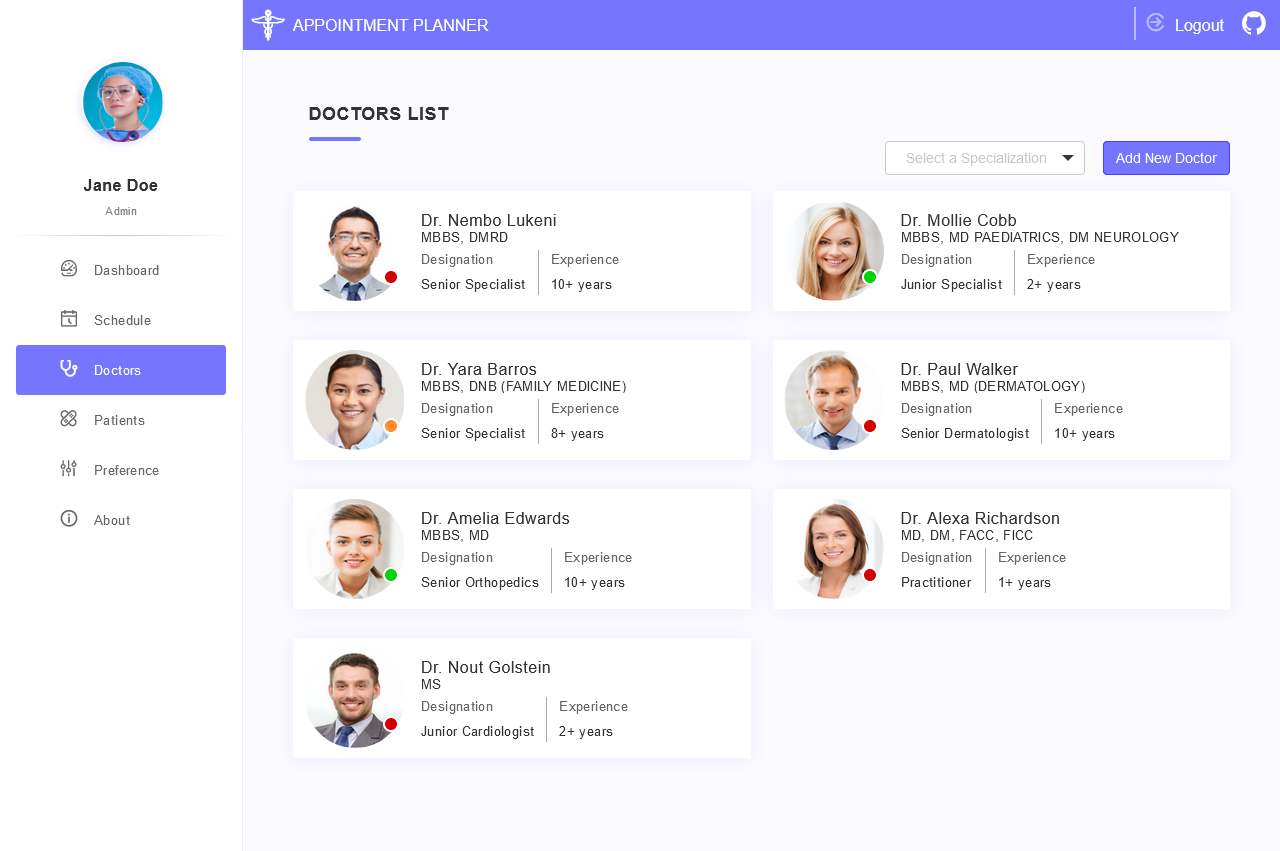
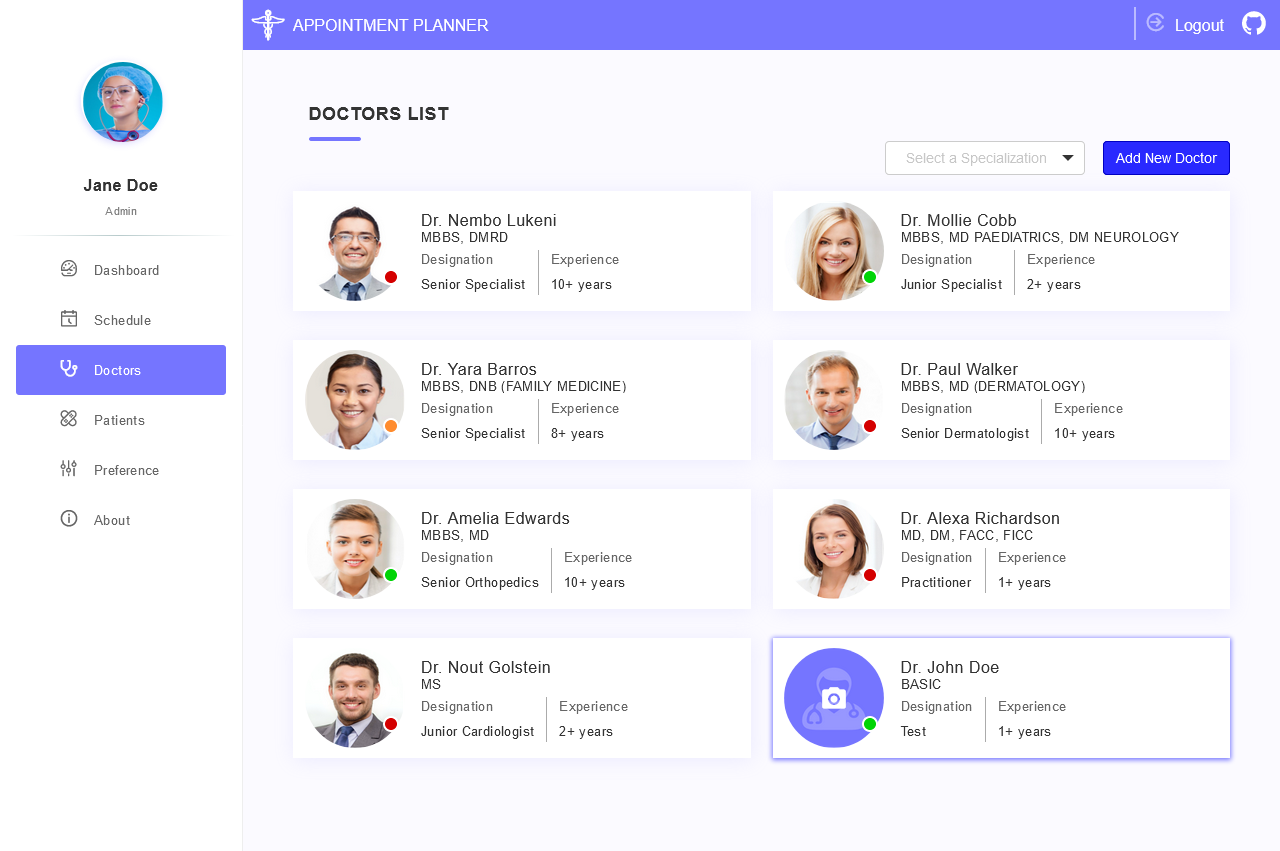
pom_lesson_2

Changed region(s): [[0.5938, 0.7333, 0.9688, 0.9166], [0.8438, 0.1528, 0.9688, 0.2139], [0.7188, 0.7638, 0.7812, 0.7944]]

diff --git a/src/tests/simple.tests.js b/src/tests/simple.tests.js
@@ -1,12 +1,8 @@
-const DashboardPage = require('../po/pages/dashboard.page');
-const DoctorsPage = require('../po/pages/doctors.page');
-
-const dashboardPage = new DashboardPage();
-const doctorsPage = new DoctorsPage();
+const {pages} = require('./../po');
 
 describe("Test suite", () => {
     beforeEach(async function () {
-        await dashboardPage.open();
+        await pages('dashboard').open();
     });
 
     it('Check page title', async() =>{
@@ -15,37 +11,36 @@ describe("Test suite", () => {
 
     it('Open add new doctor', async() => {
         //click doctors
-        await dashboardPage.sideMenu.item('doctors').click();
-        await doctorsPage.doctorListHeader.addNewDoctorBtn.click()
-        await expect(doctorsPage.addDoctorModal.rootEL).toBeDisplayed();
+        await pages('dashboard').sideMenu.item('doctors').click();
+        await pages('doctors').doctorListHeader.addNewDoctorBtn.click()
+        await expect(pages('doctors').addDoctorModal.rootEL).toBeDisplayed();
     })
 
     it('Add a new doctor', async () => {
   
-        await dashboardPage.sideMenu.item('doctors').click();
-        await doctorsPage.doctorListHeader.addNewDoctorBtn.click();
-        await doctorsPage.addDoctorModal.rootEL.waitForDisplayed();
+        await pages('dashboard').sideMenu.item('doctors').click();
+        await pages('doctors').doctorListHeader.addNewDoctorBtn.click();
+        await pages('doctors').addDoctorModal.rootEL.waitForDisplayed();
 
-        await $('[name="Name"]').setValue('John Doe');
-        await $('#DoctorMobile').setValue('11111111111111');
-        await $('[name="Email"]').setValue('test@test.com');
-        await $('[name="Education"]').setValue('Basic');
-        await $('[name="Designation"]').setValue('Test');
+        await pages('doctors').addDoctorModal.input('name').setValue('John Doe');
+        await pages('doctors').addDoctorModal.input('phone').setValue('11111111111111');
+        await pages('doctors').addDoctorModal.input('email').setValue('test@test.com');
+        await pages('doctors').addDoctorModal.input('education').setValue('Basic');
+        await pages('doctors').addDoctorModal.input('designation').setValue('Test');
 
-        await $("//button[normalize-space()='Save']").click();
+        await pages('doctors').addDoctorModal.saveBtn.click();
 
-        await expect(doctorsPage.addDoctorModal.rootEL).not.toBeDisplayed();
-        
-        await expect($('#Specialist_8').$('.name')).toHaveText('Dr. John Doe');
-        await expect($('#Specialist_8').$('.education')).toHaveText('Basic', {ignoreCase: true});
+        await expect(pages('doctors').addDoctorModal.rootEL).not.toBeDisplayed();
+        await expect(pages('doctors').specialistCard(8).name).toHaveText('Dr. John Doe');
+        await expect(pages('doctors').specialistCard(8).education).toHaveText('Basic', {ignoreCase: true});
     });
 
     it('Open and close add new doctor window', async() => {
-        await dashboardPage.sideMenu.item('doctors').click();
-        await doctorsPage.doctorListHeader.addNewDoctorBtn.click();
-        await doctorsPage.addDoctorModal.rootEL.waitForDisplayed();
-        await $('.e-dlg-closeicon-btn').click();
+        await pages('dashboard').sideMenu.item('doctors').click();
+        await pages('doctors').doctorListHeader.addNewDoctorBtn.click();
+        await pages('doctors').addDoctorModal.rootEL.waitForDisplayed();
+        await pages('doctors').addDoctorModal.closeBtn.click();
 
-        await expect(doctorsPage.addDoctorModal.rootEL).not.toBeDisplayed();
+        await expect(pages('doctors').addDoctorModal.rootEL).not.toBeDisplayed();
     });
 });

diff --git a/src/po/components/doctors/add-doctor.component.js b/src/po/components/doctors/add-doctor.component.js
@@ -4,6 +4,31 @@ class AddDoctorComponent extends BaseComponent{
 
     constructor() {
         super('.new-doctor-dialog')
+    };
+
+    get saveBtn() {
+        return this.rootEL.$("//button[normalize-space()='Save']")
+    }
+
+    get closeBtn() {
+        return this.rootEL.$('.e-dlg-closeicon-btn')
+    }
+
+/**
+ * @param name {'name' | 'phone' | 'email' | 'education' | 'designation'}
+ * @returns{*}
+ */;
+
+    input(name) {
+        const selectors = {
+            name: '[name="Name"]',
+            phone: '#DoctorMobile',
+            email: '[name="Email"]',
+            education: '[name="Education"]',
+            designation: '[name="Designation"]'
+        };
+    
+        return this.rootEL.$(selectors[name.toLowerCase()]);
     }
 }
   

diff --git a/src/po/pages/doctors.page.js b/src/po/pages/doctors.page.js
@@ -1,12 +1,17 @@
 const BasePage = require('./base.page')
 
-const {DoctorListHeader, AddDoctorModal} = require('../components');
+const {DoctorListHeader, AddDoctorModal, SpecialistCard} = require('./../components');
 
 class DoctorsPage extends BasePage{
+
     constructor() {
         super('showcase/angular/appointmentplanner/#/doctors')
         this.doctorListHeader = new DoctorListHeader();
         this.addDoctorModal = new AddDoctorModal();
+    }
+
+    specialistCard(id) {
+        return new SpecialistCard(id)
     }
 }
 

diff --git a/src/po/pages/base.page.js b/src/po/pages/base.page.js
@@ -1,11 +1,10 @@
-const HeaderComponent = require("../components/common/header.component");
-const SideMenuComponent = require("../components/common/sidemenu.component");
+const {Header, SideMenu} = require("./../components");
 
 class BasePage {
     constructor(url) {
         this.url = url;
-        this.header = new HeaderComponent();
-        this.sideMenu = new SideMenuComponent();
+        this.header = new Header();
+        this.sideMenu = new SideMenu();
     }
 
     open() {

diff --git a/src/po/components/index.js b/src/po/components/index.js
@@ -2,10 +2,12 @@ const Header = require('./common/header.component');
 const SideMenu = require('./common/sidemenu.component');
 const AddDoctorModal = require('./doctors/add-doctor.component');
 const DoctorListHeader = require('./doctors/list-header.component');
+const SpecialistCard = require('./doctors/specialist-card.compnent')
 
 module.exports = {
     Header,
     SideMenu,
     AddDoctorModal,
-    DoctorListHeader
+    DoctorListHeader,
+    SpecialistCard
 }

diff --git a/src/po/pages/index.js b/src/po/pages/index.js
@@ -1,0 +1,21 @@
+const DashboardPage = require('./dashboard.page');
+const DoctorsPage = require('./doctors.page');
+
+/**
+ * @param name {'dashboard' | 'doctors'}
+ * @returns {DashboardPage | DoctorsPage}
+ */
+
+function pages(name) {
+    const items = {
+        dashboard: new DashboardPage(),
+        doctors: new DoctorsPage()
+    }
+    return items[name.toLowerCase()];
+}
+
+module.exports = {
+    DashboardPage,
+    DoctorsPage,
+    pages,
+}

diff --git a/src/po/components/doctors/specialist-card.compnent.js b/src/po/components/doctors/specialist-card.compnent.js
@@ -1,0 +1,19 @@
+const BaseComponent = require('../common/base.component');
+
+class SpecialistCardComponent extends BaseComponent {
+
+    constructor(id) {
+        super(`#Specialist_${id}`);
+    }
+
+    get name() {
+        return this.rootEL.$('.name');
+    }
+
+    get education() {
+        return this.rootEL.$('.education' );
+    }
+
+}
+
+module.exports = SpecialistCardComponent;

diff --git a/src/po/index.js b/src/po/index.js
@@ -1,0 +1,5 @@
+const pages = require ('./pages');
+
+module.exports = {
+    ...pages,
+}
